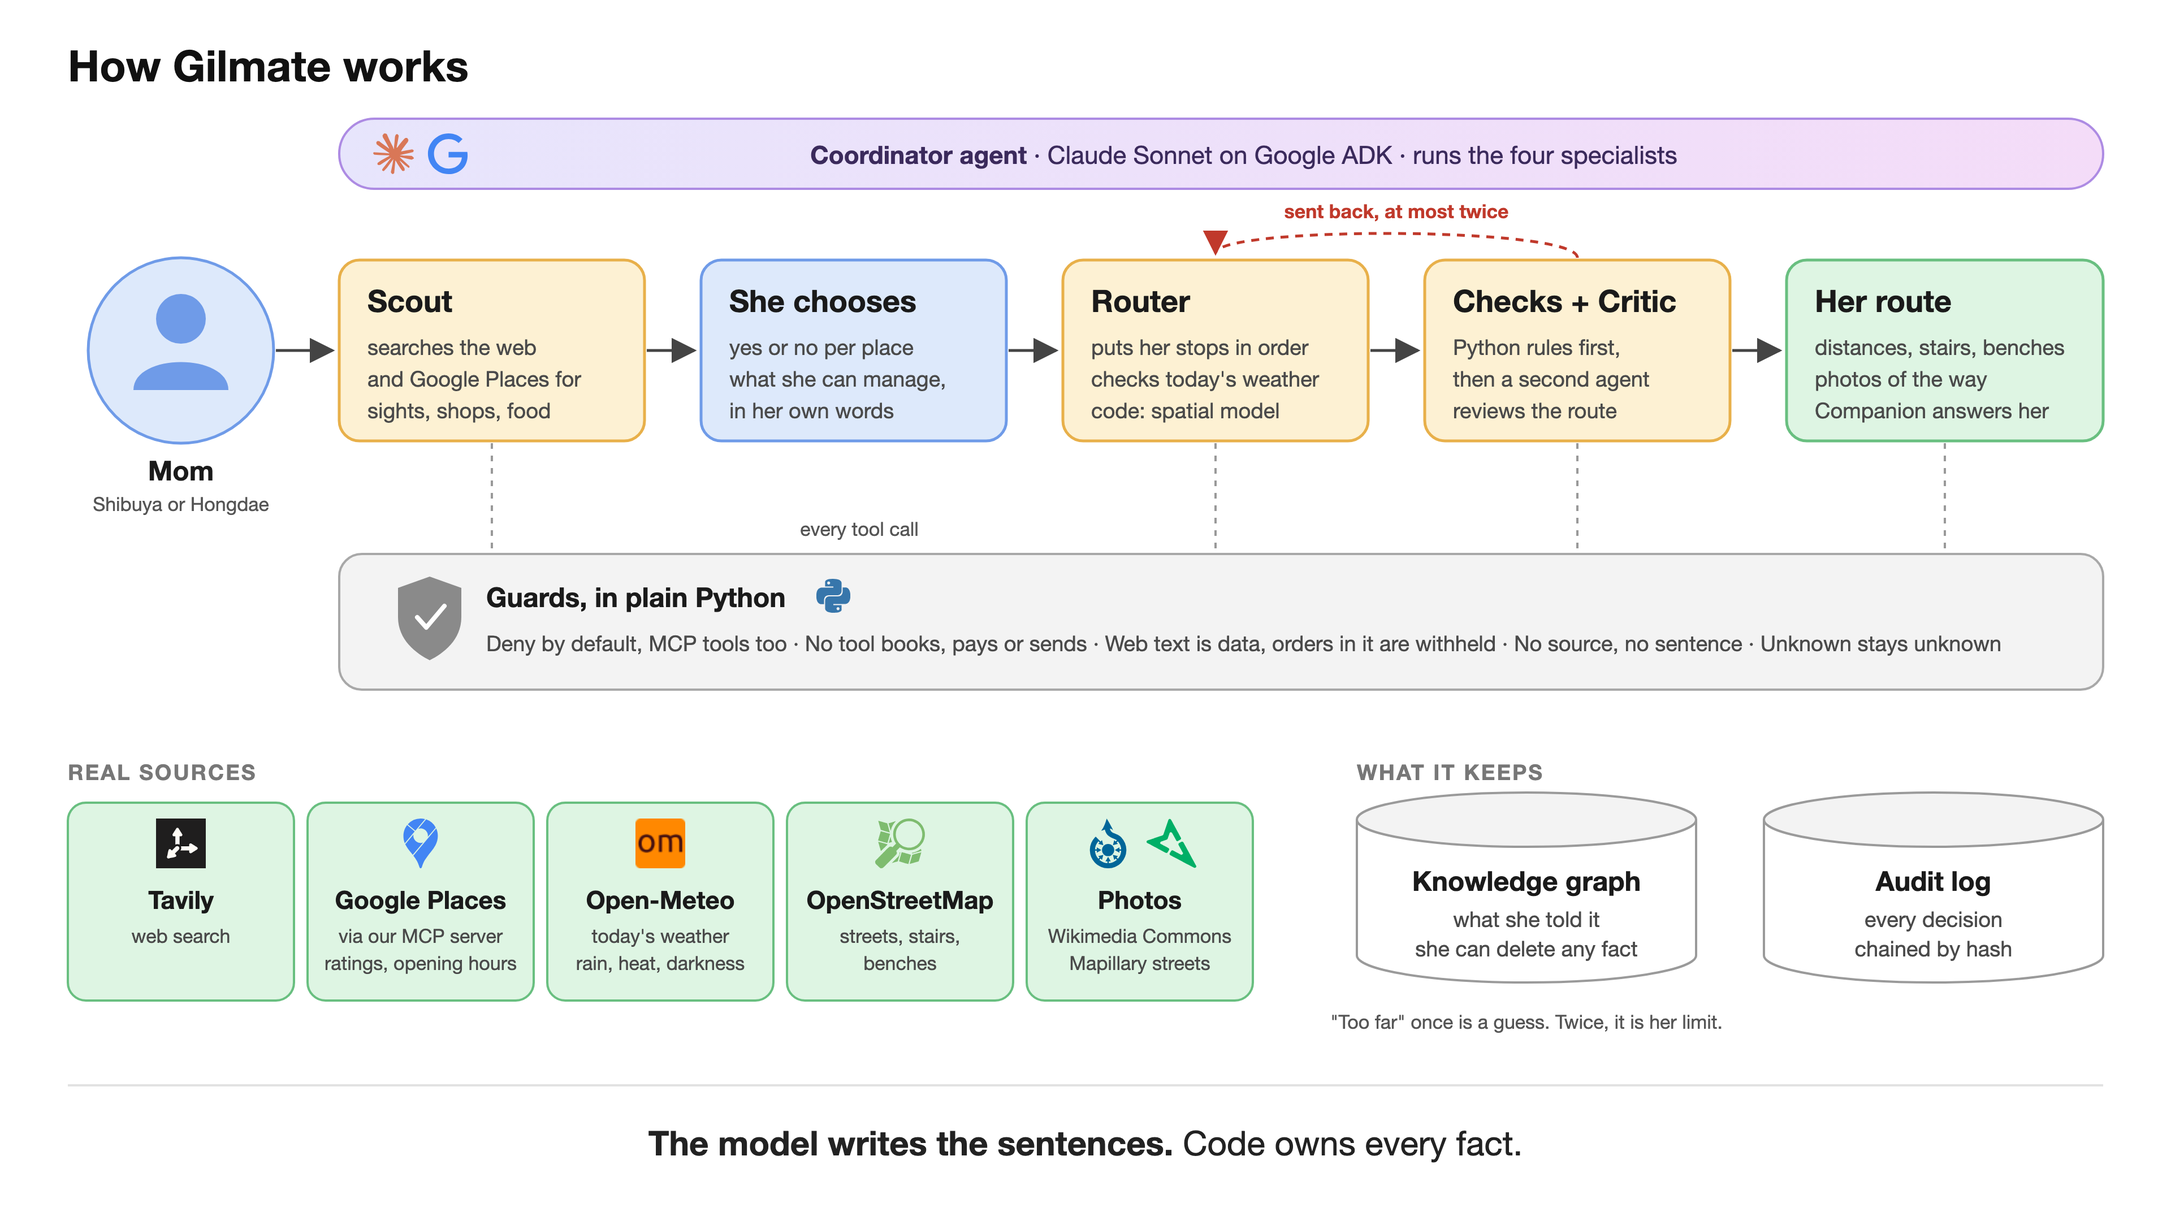
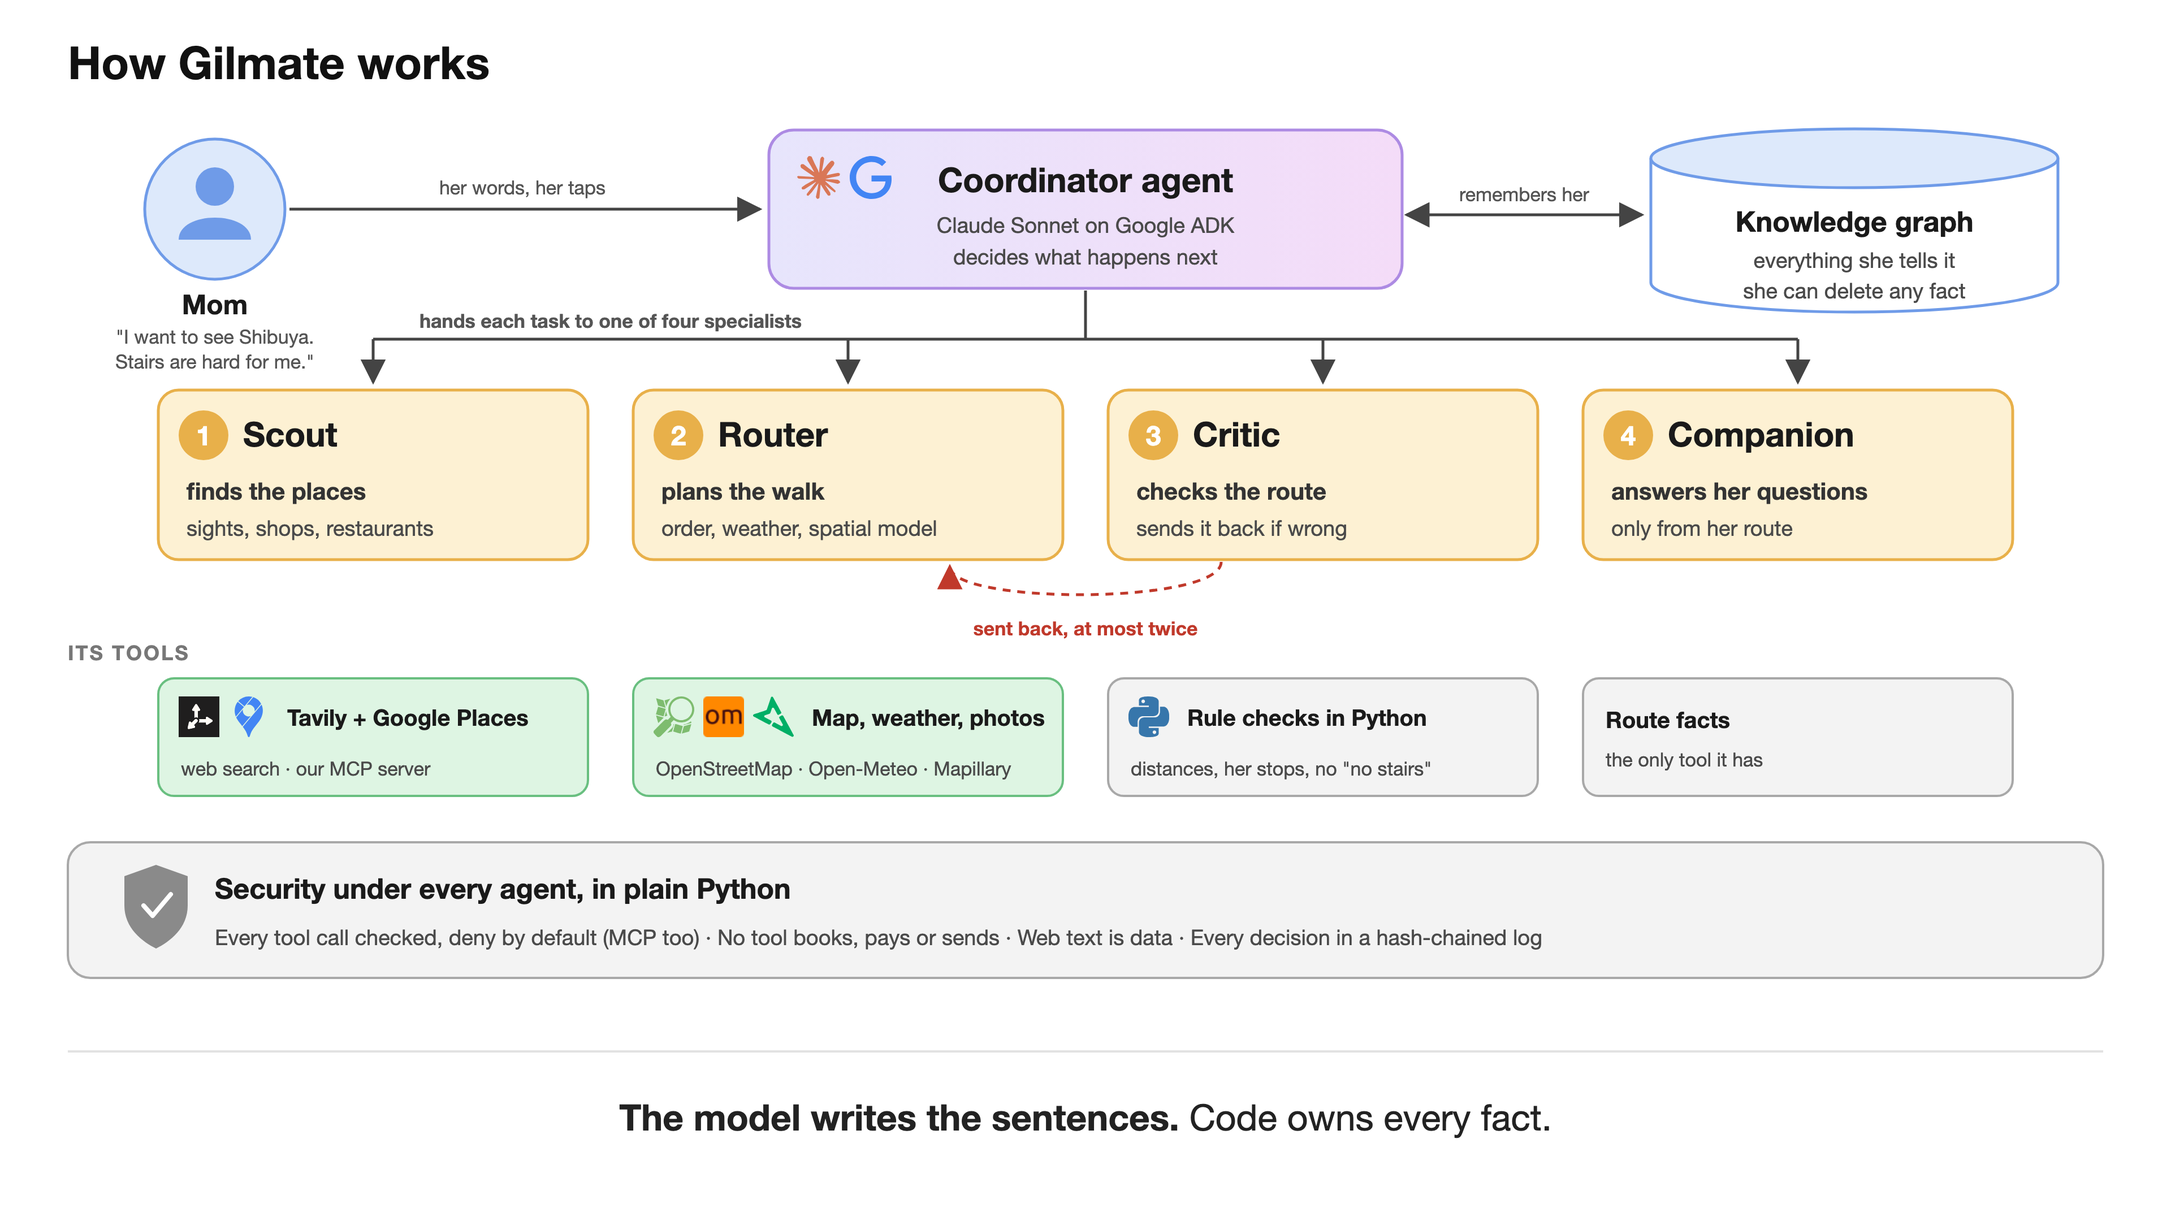
Update the architecture picture

diff --git a/img/architecture.html b/img/architecture.html
@@ -1,152 +1,87 @@
-<!doctype html>
-<html><head><meta charset="utf-8"><title>How Gilmate works</title>
-<style>
-  html, body { margin: 0; background: #fff; }
-  svg { display: block; font-family: -apple-system, "Helvetica Neue", Arial, sans-serif; }
-  .h { font-size: 27px; font-weight: 600; fill: #1a1a1a; }
-  .s { font-size: 19px; fill: #4a4a4a; }
-  .lab { font-size: 17px; fill: #555; }
-  .sec { font-size: 19px; font-weight: 600; fill: #777; letter-spacing: 1.5px; }
-</style></head>
-<body>
-<svg width="1920" height="1080" viewBox="0 0 1920 1080" xmlns="http://www.w3.org/2000/svg">
-  <defs>
-    <marker id="ar" viewBox="0 0 10 10" refX="9" refY="5" markerWidth="9" markerHeight="9" orient="auto-start-reverse">
-      <path d="M0,0 L10,5 L0,10 z" fill="#444"/>
-    </marker>
-    <marker id="arr" viewBox="0 0 10 10" refX="9" refY="5" markerWidth="9" markerHeight="9" orient="auto-start-reverse">
-      <path d="M0,0 L10,5 L0,10 z" fill="#c0392b"/>
-    </marker>
-    <linearGradient id="vio" x1="0" x2="1"><stop offset="0" stop-color="#e7e5fc"/><stop offset="1" stop-color="#f4dcf8"/></linearGradient>
-  </defs>
+<!doctype html><html><head><meta charset="utf-8"><title>How Gilmate works</title><style>
+html,body{margin:0;background:#fff} svg{display:block;font-family:-apple-system,"Helvetica Neue",Arial,sans-serif}
+.t{font-size:40px;font-weight:700;fill:#111}.h{font-weight:600;fill:#1a1a1a}.s{font-size:19px;fill:#4a4a4a}.lab{font-size:17px;fill:#555}.sec{font-size:18px;font-weight:600;fill:#777;letter-spacing:1.5px}
+</style></head><body><svg width="1920" height="1080" viewBox="0 0 1920 1080" xmlns="http://www.w3.org/2000/svg"><defs>
+<marker id="ar" viewBox="0 0 10 10" refX="9" refY="5" markerWidth="9" markerHeight="9" orient="auto-start-reverse"><path d="M0,0 L10,5 L0,10 z" fill="#444"/></marker>
+<marker id="arr" viewBox="0 0 10 10" refX="9" refY="5" markerWidth="9" markerHeight="9" orient="auto-start-reverse"><path d="M0,0 L10,5 L0,10 z" fill="#c0392b"/></marker>
+<linearGradient id="vio" x1="0" x2="1"><stop offset="0" stop-color="#e7e5fc"/><stop offset="1" stop-color="#f4dcf8"/></linearGradient></defs>
+<text x="60" y="70" text-anchor="start" class="t" style="">How Gilmate works</text>
+<circle cx="190" cy="185" r="62" fill="#dde9fb" stroke="#6f9be8" stroke-width="2.5"/><circle cx="190" cy="165" r="17" fill="#6f9be8"/><path d="M158,212 C158,186 222,186 222,212 Z" fill="#6f9be8"/>
+<text x="190" y="278" text-anchor="middle" class="h" style="font-size:24px">Mom</text>
+<text x="190" y="304" text-anchor="middle" class="lab" style="">"I want to see Shibuya.</text>
+<text x="190" y="326" text-anchor="middle" class="lab" style="">Stairs are hard for me."</text>
+<line x1="256" y1="185" x2="672" y2="185" stroke="#444" stroke-width="2.5" marker-end="url(#ar)"/>
+<text x="462" y="172" text-anchor="middle" class="lab" style="">her words, her taps</text>
+<rect x="680" y="115" width="560" height="140" rx="22" fill="url(#vio)" stroke="#ad8be3" stroke-width="2.5"/>
[1 lines of base64/hex data omitted]
+<text x="960" y="170" text-anchor="middle" class="h" style="font-size:30px">Coordinator agent</text>
+<text x="960" y="206" text-anchor="middle" class="s" style="">Claude Sonnet on Google ADK</text>
+<text x="960" y="234" text-anchor="middle" class="s" style="">decides what happens next</text>
+<path d="M1460,140 L1460,250 A180,26 0 0 0 1820,250 L1820,140" fill="#fff" stroke="#6f9be8" stroke-width="2.5"/><ellipse cx="1640" cy="140" rx="180" ry="26" fill="#dde9fb" stroke="#6f9be8" stroke-width="2.5"/>
+<text x="1640" y="205" text-anchor="middle" class="h" style="font-size:25px">Knowledge graph</text>
+<text x="1640" y="237" text-anchor="middle" class="s" style="">everything she tells it</text>
+<text x="1640" y="264" text-anchor="middle" class="s" style="">she can delete any fact</text>
+<line x1="1244" y1="190" x2="1452" y2="190" stroke="#444" stroke-width="2.5" marker-start="url(#ar)" marker-end="url(#ar)"/>
+<text x="1348" y="178" text-anchor="middle" class="lab" style="">remembers her</text>
+<g stroke="#444" stroke-width="2.5" fill="none"><line x1="960" y1="257" x2="960" y2="300"/><line x1="330" y1="300" x2="1590" y2="300"/>
+<line x1="330" y1="300" x2="330" y2="338" marker-end="url(#ar)"/>
+<line x1="750" y1="300" x2="750" y2="338" marker-end="url(#ar)"/>
+<line x1="1170" y1="300" x2="1170" y2="338" marker-end="url(#ar)"/>
+<line x1="1590" y1="300" x2="1590" y2="338" marker-end="url(#ar)"/>
+</g>
+<text x="540" y="290" text-anchor="middle" class="lab" style="font-weight:600">hands each task to one of four specialists</text>
+<rect x="140" y="345" width="380" height="150" rx="18" fill="#fdf1d3" stroke="#e8b04a" stroke-width="2.5"/>
+<circle cx="180" cy="385" r="22" fill="#e8b04a"/>
+<text x="180" y="394" text-anchor="middle" class="h" style="font-size:24px;fill:#fff">1</text>
+<text x="215" y="395" text-anchor="start" class="h" style="font-size:30px">Scout</text>
+<text x="165" y="442" text-anchor="start" class="s" style="font-size:21px;font-weight:600;fill:#333">finds the places</text>
+<text x="165" y="474" text-anchor="start" class="s" style="">sights, shops, restaurants</text>
+<rect x="560" y="345" width="380" height="150" rx="18" fill="#fdf1d3" stroke="#e8b04a" stroke-width="2.5"/>
+<circle cx="600" cy="385" r="22" fill="#e8b04a"/>
+<text x="600" y="394" text-anchor="middle" class="h" style="font-size:24px;fill:#fff">2</text>
+<text x="635" y="395" text-anchor="start" class="h" style="font-size:30px">Router</text>
+<text x="585" y="442" text-anchor="start" class="s" style="font-size:21px;font-weight:600;fill:#333">plans the walk</text>
+<text x="585" y="474" text-anchor="start" class="s" style="">order, weather, spatial model</text>
+<rect x="980" y="345" width="380" height="150" rx="18" fill="#fdf1d3" stroke="#e8b04a" stroke-width="2.5"/>
+<circle cx="1020" cy="385" r="22" fill="#e8b04a"/>
+<text x="1020" y="394" text-anchor="middle" class="h" style="font-size:24px;fill:#fff">3</text>
+<text x="1055" y="395" text-anchor="start" class="h" style="font-size:30px">Critic</text>
+<text x="1005" y="442" text-anchor="start" class="s" style="font-size:21px;font-weight:600;fill:#333">checks the route</text>
+<text x="1005" y="474" text-anchor="start" class="s" style="">sends it back if wrong</text>
+<rect x="1400" y="345" width="380" height="150" rx="18" fill="#fdf1d3" stroke="#e8b04a" stroke-width="2.5"/>
+<circle cx="1440" cy="385" r="22" fill="#e8b04a"/>
+<text x="1440" y="394" text-anchor="middle" class="h" style="font-size:24px;fill:#fff">4</text>
+<text x="1475" y="395" text-anchor="start" class="h" style="font-size:30px">Companion</text>
+<text x="1425" y="442" text-anchor="start" class="s" style="font-size:21px;font-weight:600;fill:#333">answers her questions</text>
+<text x="1425" y="474" text-anchor="start" class="s" style="">only from her route</text>
+<path d="M1080,497 C1080,535 840,535 840,501" fill="none" stroke="#c0392b" stroke-width="2.5" stroke-dasharray="7 6" marker-end="url(#arr)"/>
+<text x="960" y="562" text-anchor="middle" class="lab" style="fill:#c0392b;font-weight:600">sent back, at most twice</text>
+<text x="60" y="584" text-anchor="start" class="sec" style="">ITS TOOLS</text>
+<rect x="140" y="600" width="380" height="104" rx="14" fill="#def5e3" stroke="#69bf80" stroke-width="2"/>
[2 lines of base64/hex data omitted]
 
-  <!-- title -->
-  <text x="60" y="72" style="font-size:38px;font-weight:700;fill:#111">How Gilmate works</text>
+<text x="254" y="642" text-anchor="start" class="h" style="font-size:20px">Tavily + Google Places</text>
+<text x="160" y="686" text-anchor="start" class="s" style="font-size:17px">web search · our MCP server</text>
+<rect x="560" y="600" width="380" height="104" rx="14" fill="#def5e3" stroke="#69bf80" stroke-width="2"/>
[3 lines of base64/hex data omitted]
 
-  <!-- coordinator banner -->
-  <rect x="300" y="105" width="1560" height="62" rx="31" fill="url(#vio)" stroke="#ad8be3" stroke-width="2"/>
[1 lines of base64/hex data omitted]
-  <text x="1100" y="145" text-anchor="middle" class="s" style="font-size:22px;fill:#3b2a5c"><tspan style="font-weight:600">Coordinator agent</tspan>  ·  Claude Sonnet on Google ADK  ·  runs the four specialists</text>
+<text x="718" y="642" text-anchor="start" class="h" style="font-size:20px">Map, weather, photos</text>
+<text x="580" y="686" text-anchor="start" class="s" style="font-size:17px">OpenStreetMap · Open-Meteo · Mapillary</text>
+<rect x="980" y="600" width="380" height="104" rx="14" fill="#f3f3f3" stroke="#a8a8a8" stroke-width="2"/>
[1 lines of base64/hex data omitted]
 
-  <!-- critic loop (drawn first so boxes cover its ends) -->
-  <path d="M1395,228 C1395,200 1075,200 1075,224" fill="none" stroke="#c0392b" stroke-width="2.5" stroke-dasharray="7 6" marker-end="url(#arr)"/>
-  <text x="1235" y="193" text-anchor="middle" class="lab" style="fill:#c0392b;font-weight:600">sent back, at most twice</text>
+<text x="1050" y="642" text-anchor="start" class="h" style="font-size:20px">Rule checks in Python</text>
+<text x="1000" y="686" text-anchor="start" class="s" style="font-size:17px">distances, her stops, no "no stairs"</text>
+<rect x="1400" y="600" width="380" height="104" rx="14" fill="#f3f3f3" stroke="#a8a8a8" stroke-width="2"/>
 
-  <!-- her -->
-  <circle cx="160" cy="310" r="82" fill="#dde9fb" stroke="#6f9be8" stroke-width="2.5"/>
-  <circle cx="160" cy="282" r="22" fill="#6f9be8"/>
-  <path d="M118,345 C118,312 202,312 202,345 Z" fill="#6f9be8"/>
-  <text x="160" y="425" text-anchor="middle" class="h" style="font-size:24px">Mom</text>
-  <text x="160" y="452" text-anchor="middle" class="lab">Shibuya or Hongdae</text>
-
-  <!-- pipeline boxes -->
-  <g>
-    <rect x="300" y="230" width="270" height="160" rx="18" fill="#fdf1d3" stroke="#e8b04a" stroke-width="2.5"/>
-    <text x="325" y="276" class="h">Scout</text>
-    <text x="325" y="314" class="s">searches the web</text>
-    <text x="325" y="342" class="s">and Google Places for</text>
-    <text x="325" y="370" class="s">sights, shops, food</text>
-
-    <rect x="620" y="230" width="270" height="160" rx="18" fill="#dde9fb" stroke="#6f9be8" stroke-width="2.5"/>
-    <text x="645" y="276" class="h">She chooses</text>
-    <text x="645" y="314" class="s">yes or no per place</text>
-    <text x="645" y="342" class="s">what she can manage,</text>
-    <text x="645" y="370" class="s">in her own words</text>
-
-    <rect x="940" y="230" width="270" height="160" rx="18" fill="#fdf1d3" stroke="#e8b04a" stroke-width="2.5"/>
-    <text x="965" y="276" class="h">Router</text>
-    <text x="965" y="314" class="s">puts her stops in order</text>
-    <text x="965" y="342" class="s">checks today's weather</text>
-    <text x="965" y="370" class="s">code: spatial model</text>
-
-    <rect x="1260" y="230" width="270" height="160" rx="18" fill="#fdf1d3" stroke="#e8b04a" stroke-width="2.5"/>
-    <text x="1285" y="276" class="h">Checks + Critic</text>
-    <text x="1285" y="314" class="s">Python rules first,</text>
-    <text x="1285" y="342" class="s">then a second agent</text>
-    <text x="1285" y="370" class="s">reviews the route</text>
-
-    <rect x="1580" y="230" width="280" height="160" rx="18" fill="#def5e3" stroke="#69bf80" stroke-width="2.5"/>
-    <text x="1605" y="276" class="h">Her route</text>
-    <text x="1605" y="314" class="s">distances, stairs, benches</text>
-    <text x="1605" y="342" class="s">photos of the way</text>
-    <text x="1605" y="370" class="s">Companion answers her</text>
-  </g>
-
-  <!-- flow arrows -->
-  <g stroke="#444" stroke-width="2.5" fill="none">
-    <line x1="244" y1="310" x2="294" y2="310" marker-end="url(#ar)"/>
-    <line x1="572" y1="310" x2="614" y2="310" marker-end="url(#ar)"/>
-    <line x1="892" y1="310" x2="934" y2="310" marker-end="url(#ar)"/>
-    <line x1="1212" y1="310" x2="1254" y2="310" marker-end="url(#ar)"/>
-    <line x1="1532" y1="310" x2="1574" y2="310" marker-end="url(#ar)"/>
-  </g>
-
-  <!-- every tool call -->
-  <g stroke="#999" stroke-width="2" stroke-dasharray="5 6">
-    <line x1="435" y1="392" x2="435" y2="488"/>
-    <line x1="1075" y1="392" x2="1075" y2="488"/>
-    <line x1="1395" y1="392" x2="1395" y2="488"/>
-    <line x1="1720" y1="392" x2="1720" y2="488"/>
-  </g>
-  <rect x="660" y="452" width="200" height="30" rx="15" fill="#fff"/>
-  <text x="760" y="474" text-anchor="middle" class="lab">every tool call</text>
-
-  <!-- guards band -->
-  <rect x="300" y="490" width="1560" height="120" rx="20" fill="#f3f3f3" stroke="#a8a8a8" stroke-width="2"/>
-  <path d="M352,520 L380,510 L408,520 L408,546 C408,566 392,578 380,584 C368,578 352,566 352,546 Z" fill="#8a8a8a"/>
-  <path d="M369,546 L377,555 L393,536" stroke="#fff" stroke-width="4" fill="none" stroke-linecap="round" stroke-linejoin="round"/>
[1 lines of base64/hex data omitted]
-  <text x="430" y="576" class="s">Deny by default, MCP tools too   ·   No tool books, pays or sends   ·   Web text is data, orders in it are withheld   ·   No source, no sentence   ·   Unknown stays unknown</text>
-
-  <!-- bottom: sources -->
-  <text x="60" y="690" class="sec">REAL SOURCES</text>
-  <g>
-    <rect x="60" y="710" width="200" height="175" rx="16" fill="#def5e3" stroke="#69bf80" stroke-width="2"/>
[1 lines of base64/hex data omitted]
-    <text x="160" y="804" text-anchor="middle" class="h" style="font-size:22px">Tavily</text>
-    <text x="160" y="834" text-anchor="middle" class="s" style="font-size:17px">web search</text>
-    <rect x="272" y="710" width="200" height="175" rx="16" fill="#def5e3" stroke="#69bf80" stroke-width="2"/>
[1 lines of base64/hex data omitted]
-    <text x="372" y="804" text-anchor="middle" class="h" style="font-size:22px">Google Places</text>
-    <text x="372" y="834" text-anchor="middle" class="s" style="font-size:17px">via our MCP server</text>
-    <text x="372" y="858" text-anchor="middle" class="s" style="font-size:17px">ratings, opening hours</text>
-    <rect x="484" y="710" width="200" height="175" rx="16" fill="#def5e3" stroke="#69bf80" stroke-width="2"/>
[1 lines of base64/hex data omitted]
-    <text x="584" y="804" text-anchor="middle" class="h" style="font-size:22px">Open-Meteo</text>
-    <text x="584" y="834" text-anchor="middle" class="s" style="font-size:17px">today's weather</text>
-    <text x="584" y="858" text-anchor="middle" class="s" style="font-size:17px">rain, heat, darkness</text>
-    <rect x="696" y="710" width="200" height="175" rx="16" fill="#def5e3" stroke="#69bf80" stroke-width="2"/>
[1 lines of base64/hex data omitted]
-    <text x="796" y="804" text-anchor="middle" class="h" style="font-size:22px">OpenStreetMap</text>
-    <text x="796" y="834" text-anchor="middle" class="s" style="font-size:17px">streets, stairs,</text>
-    <text x="796" y="858" text-anchor="middle" class="s" style="font-size:17px">benches</text>
-    <rect x="908" y="710" width="200" height="175" rx="16" fill="#def5e3" stroke="#69bf80" stroke-width="2"/>
[2 lines of base64/hex data omitted]
-    <text x="1008" y="804" text-anchor="middle" class="h" style="font-size:22px">Photos</text>
-    <text x="1008" y="834" text-anchor="middle" class="s" style="font-size:17px">Wikimedia Commons</text>
-    <text x="1008" y="858" text-anchor="middle" class="s" style="font-size:17px">Mapillary streets</text>
-    </g>
-
-  <!-- bottom: stores as cylinders -->
-  <text x="1200" y="690" class="sec">WHAT IT KEEPS</text>
-  <g>
-    <path d="M1200,725 L1200,845 A150,24 0 0 0 1500,845 L1500,725" fill="#fff" stroke="#9a9a9a" stroke-width="2"/>
-    <ellipse cx="1350" cy="725" rx="150" ry="24" fill="#f3f3f3" stroke="#9a9a9a" stroke-width="2"/>
-    <text x="1350" y="788" text-anchor="middle" class="h" style="font-size:24px">Knowledge graph</text>
-    <text x="1350" y="820" text-anchor="middle" class="s">what she told it</text>
-    <text x="1350" y="846" text-anchor="middle" class="s">she can delete any fact</text>
-
-    <path d="M1560,725 L1560,845 A150,24 0 0 0 1860,845 L1860,725" fill="#fff" stroke="#9a9a9a" stroke-width="2"/>
-    <ellipse cx="1710" cy="725" rx="150" ry="24" fill="#f3f3f3" stroke="#9a9a9a" stroke-width="2"/>
-    <text x="1710" y="788" text-anchor="middle" class="h" style="font-size:24px">Audit log</text>
-    <text x="1710" y="820" text-anchor="middle" class="s">every decision</text>
-    <text x="1710" y="846" text-anchor="middle" class="s">chained by hash</text>
-  </g>
-  <text x="1350" y="910" text-anchor="middle" class="lab">"Too far" once is a guess. Twice, it is her limit.</text>
-
-  <!-- the rule -->
-  <line x1="60" y1="960" x2="1860" y2="960" stroke="#e2e2e2" stroke-width="2"/>
-  <text x="960" y="1022" text-anchor="middle" style="font-size:30px;fill:#222"><tspan style="font-weight:700">The model writes the sentences.</tspan>  Code owns every fact.</text>
-</svg>
-</body></html>
+<text x="1420" y="644" text-anchor="start" class="h" style="font-size:20px">Route facts</text>
+<text x="1420" y="678" text-anchor="start" class="s" style="font-size:17px">the only tool it has</text>
+<rect x="60" y="745" width="1800" height="120" rx="20" fill="#f3f3f3" stroke="#a8a8a8" stroke-width="2"/>
+<path d="M110,775 L138,765 L166,775 L166,801 C166,821 150,833 138,839 C126,833 110,821 110,801 Z" fill="#8a8a8a"/><path d="M127,801 L135,810 L151,791" stroke="#fff" stroke-width="4" fill="none" stroke-linecap="round" stroke-linejoin="round"/>
+<text x="190" y="795" text-anchor="start" class="h" style="font-size:25px">Security under every agent, in plain Python</text>
+<text x="190" y="836" text-anchor="start" class="s" style="">Every tool call checked, deny by default (MCP too)   ·   No tool books, pays or sends   ·   Web text is data   ·   Every decision in a hash-chained log</text>
+<line x1="60" y1="930" x2="1860" y2="930" stroke="#e2e2e2" stroke-width="2"/>
+<text x="960" y="1000" text-anchor="middle" class="s" style="font-size:32px;fill:#222"><tspan style="font-weight:700">The model writes the sentences.</tspan>  Code owns every fact.</text></svg></body></html>
